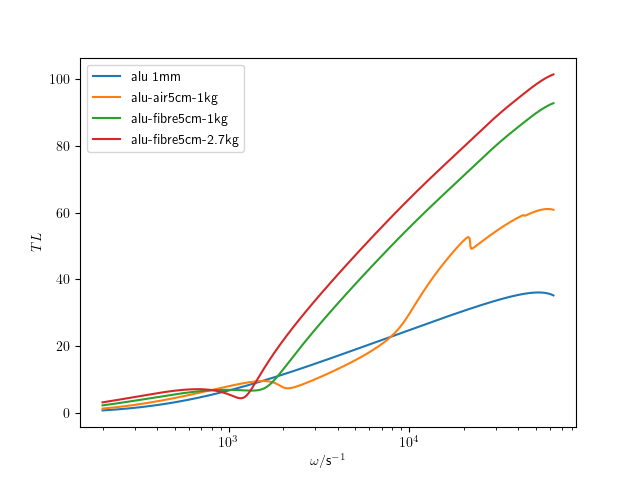
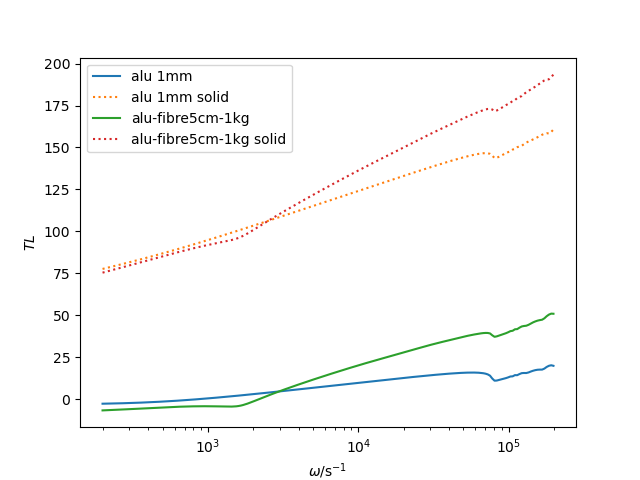
SolidLayer added as infinite layer and allard_matrix method included to cope with the different DOFs of layers of different nature.

diff --git a/pyva/models.py b/pyva/models.py
@@ -616,7 +616,7 @@ class TMmodel:
 
         return v0,v1
     
-    def allard_matrix(self,omega,kx=0.,boundary_condition = 'equivalent_fluid',end_fluid=matC.Fluid(),reduced = False):
+    def allard_matrix(self,omega,kx=0.,boundary_condition = 'equivalent_fluid', out_fluid = matC.Fluid(),reduced = False):
         """
         Calculate Allard matrix of all layers.
 
@@ -647,8 +647,8 @@ class TMmodel:
         # The current DOF 1 is the DOF just left of the next interface
         current_left_ID = 0
         
-        #SIF_in  = aR.HalfSpace(fluid)
-        SIF_out = aR.HalfSpace(end_fluid)
+        #SIF_in  = aR.HalfSpace(fluids[0])
+        SIF_out = aR.HalfSpace(out_fluid)
         
         #Z_in  = SIF_in.radiation_impedance_wavenumber(omega,kx)
         Z_out = SIF_out.radiation_impedance_wavenumber(omega,kx)
@@ -701,30 +701,30 @@ class TMmodel:
             D0 += I12
             D0 += J12
             
-            # Deal with boundary condition
-            if boundary_condition == 'fixed':
-                if current_type == 'equivalent_fluid':
-                    D0 += iL.Y_fluid_fixed(xdata,2*self.N)
-                elif current_type == 'solid':
-                    D0 += iL.Y_solid_fixed(xdata,2*self.N)
-            elif boundary_condition == 'equivalent_fluid': # (11.83)
-                if current_type == 'equivalent_fluid': 
-                    D0 += iL.I_fluid_fluid(xdata,2*self.N)        # both M2
-                    D0 += iL.J_fluid_fluid(xdata,2*self.N,2*self.N+1) # e.g. M2 and M3 
-                elif current_type == 'solid': 
-                    D0 += iL.I_solid_fluid(xdata,2*self.N,2*self.N)
-                    D0 += iL.J_solid_fluid(xdata,2*self.N,2*self.N+1) # e.g. M2 and M3 
-                # Use SIF radiation impedanz to get the radiation condition
-                data_ = np.zeros((1,2,len(xdata) ),dtype=np.complex128)
-                data_[0,0,:] = -1
-                data_[0,1,:] = Z_out
-                                
-                D0 += mC.DynamicMatrix(data_, xdata, iL.fluid_exc_dof(2*self.N), dof.DOF([self.N*2+1],[0],['pressure']))
-            
+        # Deal with boundary condition
+        if boundary_condition == 'fixed':
+            if current_type == 'equivalent_fluid':
+                D0 += iL.Y_fluid_fixed(xdata,2*self.N)
+            elif current_type == 'solid':
+                D0 += iL.Y_solid_fixed(xdata,2*self.N)
+        elif boundary_condition == 'equivalent_fluid': # (11.83)
+            if current_type == 'equivalent_fluid': 
+                D0 += iL.I_fluid_fluid(xdata,2*self.N)        # both M2
+                D0 += iL.J_fluid_fluid(xdata,2*self.N,2*self.N+1) # e.g. M2 and M3 
+            elif current_type == 'solid': 
+                D0 += iL.I_solid_fluid(xdata,2*self.N,2*self.N)
+                D0 += iL.J_solid_fluid(xdata,2*self.N,2*self.N+1) # e.g. M2 and M3 
+            # Use SIF radiation impedanz to get the radiation condition
+            data_ = np.zeros((1,2,len(xdata) ),dtype=np.complex128)
+            data_[0,0,:] = -1
+            data_[0,1,:] = Z_out
+                            
+            D0 += mC.DynamicMatrix(data_, xdata, iL.fluid_exc_dof(2*self.N+1), dof.DOF([self.N*2+1],[0],['pressure']))
+        
             # Consider First Layer
             
         if reduced:
-            # set the pressure in V to 0 and create an excitation vector from the first matrix column
+            # set the pressure in V to 1 and create an excitation vector from the first matrix column
             D1 = D0[:,1:,:]
             # Create force from first column
             F = -D0.signal(slice(0,None),0)
@@ -785,6 +785,9 @@ class TMmodel:
             ID for surface condition (can be an inner ID)
         boundary_condition : str
             at end of layers
+        signal : bool, optional
+            Switch for Signal (True) or array (False) output. The default is True.
+
                 
                 
         Returns
@@ -824,6 +827,9 @@ class TMmodel:
             ID for surface condition (can be an inner ID)
         boundary_condition : str
             at end of layers
+        signal : bool, optional
+            Switch for Signal (True) or array (False) output. The default is True.
+
                 
                 
         Returns
@@ -847,6 +853,49 @@ class TMmodel:
         else:
             # ix 0 is the index of the velcoity at the surface
             return Z_s
+    
+    def transmission_allard(self,omega,kx=0.,ID=1, fluids = (matC.Fluid(),matC.Fluid()), signal = True):
+        """
+        Calculate the transmission of TMM according to Allards method.
+        
+        Parameters
+        ----------
+        ID : int
+            ID for surface condition (can be an inner ID)
+        boundary_condition : str
+            at end of layers
+        signal : bool, optional
+            Switch for Signal (True) or array (False) output. The default is True.
+    
+                
+                
+        Returns
+        -------
+        Signal 
+            impedance at port one   
+        """
+        
+        
+        # Create reduces Allard matrix
+        D1,F = self.allard_matrix(omega, kx = kx, reduced=True, boundary_condition = 'equivalent_fluid',out_fluid=fluids[1])
+        V    = D1.solve(F) 
+                    
+        Z_s = 1./V.ydata[0,:] # = 1/V_3(A)
+        SIF_in = aR.HalfSpace(fluids[0])
+        Zin = SIF_in.radiation_impedance_wavenumber(omega,kx)
+              
+        R = (Z_s-Zin)/(Z_s+Zin)
+        T = (1-R)*V.ydata[-2,:] # = (1+R)*P(B)
+        tau = abs(T)*2
+        
+        # xdata predifined by non-scalar element kx or omega
+        if signal:
+            _doftype = dof.DOFtype(typestr = 'transmission')
+            xdata_ = D1.xdata # turn single values into arrays
+            return mC.Signal(xdata_,tau,_doftype)
+        else:
+            # ix 0 is the index of the velcoity at the surface
+            return tau 
     
 
     def stiffness_matrix(self,omega,distances,ks,dA,Nstep = 10):
@@ -1049,7 +1098,7 @@ class TMmodel:
         return tau_trim/tau_plate
                
     
-    def absorption(self,omega,kx,in_fluid = matC.Fluid(),ID=1, boundary_condition = 'fixed', allard = False):
+    def absorption(self,omega,kx,in_fluid = matC.Fluid(),ID=1, boundary_condition = 'fixed', allard = False, signal = True):
         """
         Calculates the surface absorption with specified end condition and input fluid
 
@@ -1065,6 +1114,8 @@ class TMmodel:
             ID for surface condition (can be an inner ID). The default is 1.
         boundary_condition : str or Signal, optional
             boundary_condition. The default is 'fixed'.
+        signal : bool, optional
+            Switch for Signal (True) or array (False) output. The default is True.
 
         Returns
         -------
@@ -1087,8 +1138,10 @@ class TMmodel:
         refl_ = (Zsurf.ydata-Zin)/(Zsurf.ydata+Zin)
         abs_  = 1-np.abs(refl_)**2
         
-        return mC.Signal(xdata_,abs_,dof.DOF(ID,0,dof.DOFtype(typestr='general')))
-    
+        if signal:
+            return mC.Signal(xdata_,abs_,dof.DOF(ID,0,dof.DOFtype(typestr='general')))
+        else:
+            return abs_.flatten()
    
     
     def absorption_diffuse(self,omega,theta_max = 78/180*np.pi,theta_step = np.pi/180,\
@@ -1114,7 +1167,7 @@ class TMmodel:
         signal : bool
             Switch for Signal output,  The default is True.
         allard : bool
-            Switch for calculatoin method, The default is False
+            Switch for calculation method, The default is False
 
         Returns
         -------
@@ -1201,7 +1254,9 @@ class TMmodel:
         
         return mC.Signal(xdata,tau_,dof.DOF(ID,0,dof.DOFtype(typestr='transmission')))        
         
-    def transmission_diffuse(self,omega,theta_max = 78/180*np.pi,theta_step = np.pi/180,fluids = (matC.Fluid(),matC.Fluid()),ID = 0,signal = True):
+    def transmission_diffuse(self,omega,theta_max = 78/180*np.pi,theta_step = np.pi/180,\
+                                  fluids = (matC.Fluid(),matC.Fluid()),ID = 0,signal = True,
+                                  allard = False):
         """
         
 
@@ -1219,7 +1274,7 @@ class TMmodel:
             vector of coupled fluids. The default is (matC.Fluid(),matC.Fluid()).
         ID : int, optional
             node ID for output Signal. The default is 0.
-        Signal : bool, optional
+        signal : bool, optional
             Switch for Signal (True) or array (False) output. The default is True.
 
         Returns
@@ -1238,7 +1293,10 @@ class TMmodel:
         for ix,om in enumerate(omega_):
             k  = np.real(fluids[0].wavenumber(om))
             kx_    = np.sin(theta_)*k
-            tau_kx = self.transmission_coefficient(om,kx_,fluids).ydata
+            if allard:
+                tau_kx = self.transmission_allard(om,kx_,fluids).ydata
+            else:
+                tau_kx = self.transmission_coefficient(om,kx_,fluids).ydata
             #remove nans
             tau_kx[np.isnan(tau_kx)] = 0.
             tau_diffuse[ix] = 2*integrate.trapz(tau_kx*np.sin(theta_)*np.cos(theta_), theta_)/denom

diff --git a/pyva/systems/infiniteLayers.py b/pyva/systems/infiniteLayers.py
@@ -981,7 +981,7 @@ class SolidLayer(AcousticLayer):
         """
         Determine if layer is of type equivalent fluid
 
-        Defauls parameter is True
+        Defauls parameter is False
 
         Returns
         -------
@@ -989,7 +989,7 @@ class SolidLayer(AcousticLayer):
             False.
 
         """
-        return True
+        return False
 
     @property
     def mass_per_area(self):
@@ -1004,9 +1004,13 @@ class SolidLayer(AcousticLayer):
         """        
         return self.prop.mass_per_area
     
-    def transfer_impedance(self,omega,kx=0, ID = [1,2]):
+    def transfer_impedance(self,omega,kx=0, ID = [1,2], allard = False):
         """
         Transferimpedance of Solidlayer
+        
+        Implementation according to [1] except the not used denominator D1+D2*kx.
+        [1] A. Uthayasuriyan, Advanced vibro-acoustic condensed models for multi-layer structures,
+        PhD Thesis, University de Lyon, Lyon, France, 2021.
 
         Parameters
         ----------
@@ -1027,63 +1031,103 @@ class SolidLayer(AcousticLayer):
         xdata = self.get_xdata(omega, kx)
                        
         # Bulk wavenmumber L(ongitudinal) and S(hear)
-        k_L = self.prop.material.wavenumber_L(omega)
-        k_S = self.prop.material.wavenumber_S(omega)
-                
+        k_L = self.prop.material.wavenumber_L(omega) # \delta_1^2 Allard
+        k_S = self.prop.material.wavenumber_S(omega) # \delta_3^2 Allard
+        k_L2 = k_L*k_L   
+        k_S2 = k_S*k_S       
+        
         # wavenumber in z for L and S
-        kLz = np.sqrt(k_L**2-kx**2) #k_13
-        kSz = np.sqrt(k_S**2-kx**2) #k_33
+        kLz2 = k_L2-kx**2
+        kSz2 = k_S2-kx**2
+        kLz = np.sqrt(kLz2) #k_13
+        kSz = np.sqrt(kSz2) #k_33
 
         #rho_om  = lambda omega_: self.prop.fluid.rho_freq(omega_)*omega_
         h  = self.thickness
         
         #lame1 = self.prop.material.lambda_lame
-        mu    = self.prop.material.G
-        D1  = mu*(k_L**2-kx**2)
+        mu    = self.prop.material.G_complex
+        #mu    = self.prop.material.G
+        D1  = mu*(kSz2-kx**2)
+        #D1  = self.prop.material.lambda_lame()*(kx**2+kLz2)+2*mu*kLz2
         D2  = 2*mu*kx
+        
+        # if allard:
 
-
-
-
-        Gamma = np.zeros((len(xdata),4,4),dtype = np.complex128) 
-        # 1st row
-        Gamma[:,0,0] = omega*kx*np.cos(kLz*h)
-        Gamma[:,0,1] = -omega*kx*np.sin(kLz*h)
-        Gamma[:,0,2] = 1j*omega*kSz*np.sin(kSz*h)
-        Gamma[:,0,3] = -omega*kSz*np.cos(kSz*h)
-        # 2nd row
-        Gamma[:,1,0] = -1j*omega*kLz*np.sin(kLz*h)
-        Gamma[:,1,1] = omega*kLz*np.cos(kLz*h)
-        Gamma[:,1,2] = omega*kx*np.cos(kSz*h)
-        Gamma[:,1,3] = -1j*omega*kx*np.sin(kSz*h)
-        # 3rd row
-        Gamma[:,2,0] = -D1*np.cos(kLz*h)
-        Gamma[:,2,1] = 1j*D1*np.sin(kLz*h)
-        Gamma[:,2,2] = 1j*D2*kSz*np.sin(kSz*h)
-        Gamma[:,2,3] = -D2*kSz*np.cos(kSz*h)
-        # 4th row
-        Gamma[:,3,0] = 1j*D2*kLz*np.sin(kLz*h)
-        Gamma[:,3,1] = -D2*kLz*np.cos(kLz*h)
-        Gamma[:,3,2] = D1*np.cos(kSz*h)
-        Gamma[:,3,3] = -1j*D1*np.sin(kSz*h)
+        # Gamma = np.zeros((len(xdata),4,4),dtype = np.complex128)
+        # h = -h
+        # # 1st row
+        # Gamma[:,0,0] = omega*kx*np.cos(kLz*h)
+        # Gamma[:,0,1] = -1j*omega*kx*np.sin(kLz*h)
+        # Gamma[:,0,2] = 1j*omega*kSz*np.sin(kSz*h)
+        # Gamma[:,0,3] = -omega*kSz*np.cos(kSz*h)
+        # # 2nd row
+        # Gamma[:,1,0] = -1j*omega*kLz*np.sin(kLz*h)
+        # Gamma[:,1,1] = omega*kLz*np.cos(kLz*h)
+        # Gamma[:,1,2] = omega*kx*np.cos(kSz*h)
+        # Gamma[:,1,3] = -1j*omega*kx*np.sin(kSz*h)
+        # # 3rd row
+        # Gamma[:,2,0] = -D1*np.cos(kLz*h)
+        # Gamma[:,2,1] = 1j*D1*np.sin(kLz*h)
+        # Gamma[:,2,2] = 1j*D2*kSz*np.sin(kSz*h)
+        # Gamma[:,2,3] = -D2*kSz*np.cos(kSz*h)
+        # # 4th row
+        # Gamma[:,3,0] = 1j*D2*kLz*np.sin(kLz*h)
+        # Gamma[:,3,1] = -D2*kLz*np.cos(kLz*h)
+        # Gamma[:,3,2] = D1*np.cos(kSz*h)
+        # Gamma[:,3,3] = -1j*D1*np.sin(kSz*h)
 
        
-        Gamma0_inv = np.zeros((len(xdata),4,4),dtype = np.complex128) 
+        # Gamma0_inv = np.zeros((len(xdata),4,4),dtype = np.complex128) 
 
 
-        Gamma0_inv[:,0,0] = 2*kx/omega/k_S**2
-        Gamma0_inv[:,0,2] = -1/mu/k_S**2
-        Gamma0_inv[:,1,1] = (kSz**2-kx**2)/omega/kLz/k_S**2
-        Gamma0_inv[:,1,3] = -kx/mu/kLz/k_S**2
-        Gamma0_inv[:,2,1] = kx/omega/k_S**2
-        Gamma0_inv[:,2,3] = 1/mu/k_S**2
-        Gamma0_inv[:,3,0] = (kSz**2-kx**2)/omega/kSz/k_S**2
-        Gamma0_inv[:,3,2] = -kx/mu/kSz/k_S**2
+
+        # Gamma0_inv[:,0,0] = 2*kx/omega/k_S**2
+        # Gamma0_inv[:,0,2] = -1/mu/k_S**2
+        # Gamma0_inv[:,1,1] = (kSz2-kx**2)/omega/kLz/k_S**2
+        # Gamma0_inv[:,1,3] = -kx/mu/kLz/k_S**2
+        # Gamma0_inv[:,2,1] = kx/omega/k_S**2
+        # Gamma0_inv[:,2,3] = 1/mu/k_S**2
+        # Gamma0_inv[:,3,0] = -(kSz2-kx**2)/omega/kSz/k_S**2 # corrected in VAOne docs
+        # Gamma0_inv[:,3,2] = -kx/mu/kSz/k_S**2
         
-        Gamma = np.matmul(Gamma,Gamma0_inv)
-        Gamma = np.moveaxis(Gamma,0,-1) # put xaxis last
+        # Gamma = np.matmul(Gamma,Gamma0_inv)
+        # Gamma = np.moveaxis(Gamma,0,-1) # put xaxis last
 
-
+        # else:
+            
+        Gamma = np.zeros((4,4,len(xdata)),dtype = np.complex128) 
+        A = 1./(D1 + D2*kx) # Denominator not used!
+        
+        coshkLz = np.cos(kLz*h)
+        sinhkLz = np.sin(kLz*h)
+        coshkSz = np.cos(kSz*h)
+        sinhkSz = np.sin(kSz*h)
+      
+        
+        Gamma[0,0,:] = A*(D1*coshkSz+D2*kx*coshkLz)
+        Gamma[3,3,:] = Gamma[0,0,:]
+        Gamma[1,1,:] = A*(D1*coshkLz+D2*kx*coshkSz)
+        Gamma[2,2,:] = Gamma[1,1,:]
+        Gamma[0,1,:] = A*-1j*(D2*kLz*kSz*sinhkSz-D1*kx*sinhkLz)/kLz
+        Gamma[2,3,:] = Gamma[0,1,:] 
+        Gamma[1,0,:] = A*1j*(D2*kLz*kSz*sinhkLz-D1*kx*sinhkSz)/kSz
+        #Gamma[1,0,:] = A*1j*kx*(D2*kSz*sinhkLz-D1*sinhkSz)/kSz # kLz replaced by kx 
+        Gamma[3,2,:] = Gamma[1,0,:]
+        # Buffer to avoid T31 and T42 singularity for kx = 0
+        T13_ = (coshkSz - coshkLz)
+        Gamma[0,2,:] = A*T13_*kx*omega
+        Gamma[1,3,:] = Gamma[0,2,:]
+        Gamma[2,0,:] = A*D1*D2/omega*T13_
+        Gamma[3,1,:] = Gamma[2,0,:]
+        Gamma[0,3,:] = A*-1j*omega*(kLz*kSz*sinhkSz+kx**2*sinhkLz)/kLz
+        Gamma[1,2,:] = A*-1j*omega*(kLz*kSz*sinhkLz+kx**2*sinhkSz)/kSz
+        #Gamma[1,2,:] = A*-1j*omega*kx*(kSz*sinhkLz+kx*sinhkSz)/kSz # kLz replaced by kx
+        Gamma[2,1,:] = A*-1j*(D2**2*kLz*kSz*sinhkSz+D1**2*sinhkLz)/(omega*kLz)
+        Gamma[3,0,:] = A*-1j*(D2**2*kLz*kSz*sinhkLz+D1**2*sinhkSz)/(omega*kSz)
+            
+            
+            
         xdata = self.get_xdata(omega, kx )   
                        
         
